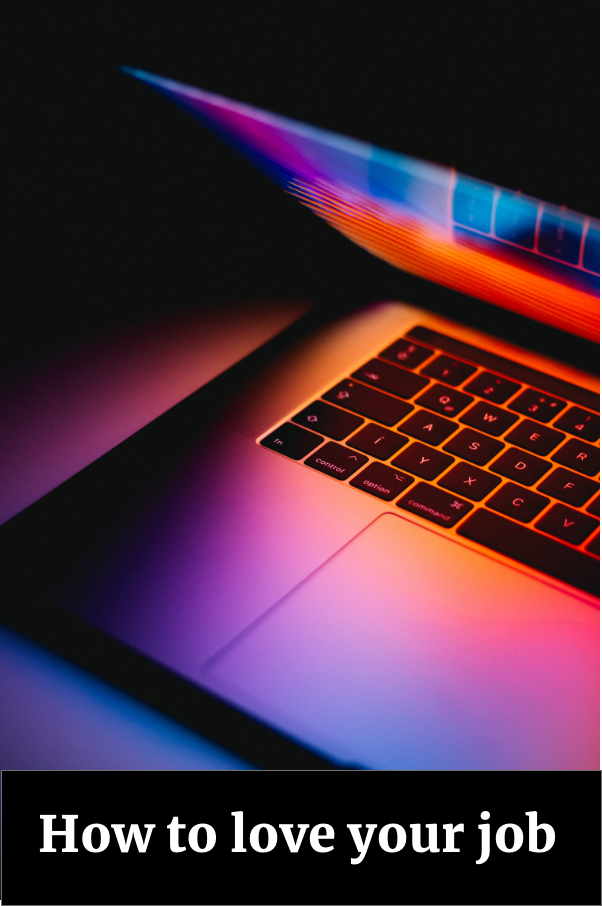
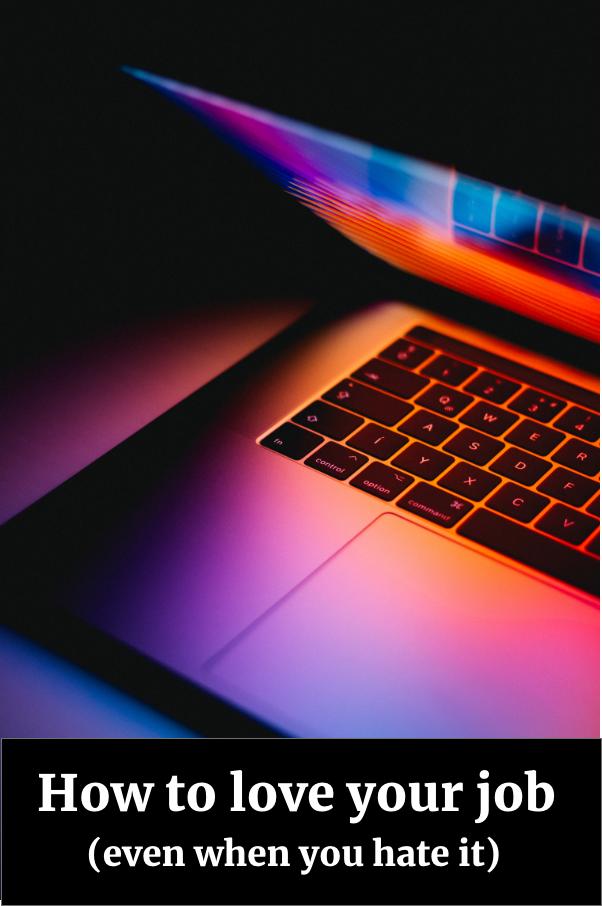
updated images and summary

Changed region(s): [[0.0, 0.8035, 1.0, 0.9581]]

diff --git a/src/blog/how-to-love-your-job/index.md b/src/blog/how-to-love-your-job/index.md
@@ -1,6 +1,6 @@
 ---
-title: "How To Love Your Job"
-description: "How to start loving something you hate"
+title: "How To Love Your Job (even when you hate it)"
+description: "How to start changing your negative thought patterns"
 date: "2018-09-16"
 image: './how-to-love-your-job.png'
 slug: "how-to-love-your-job"
